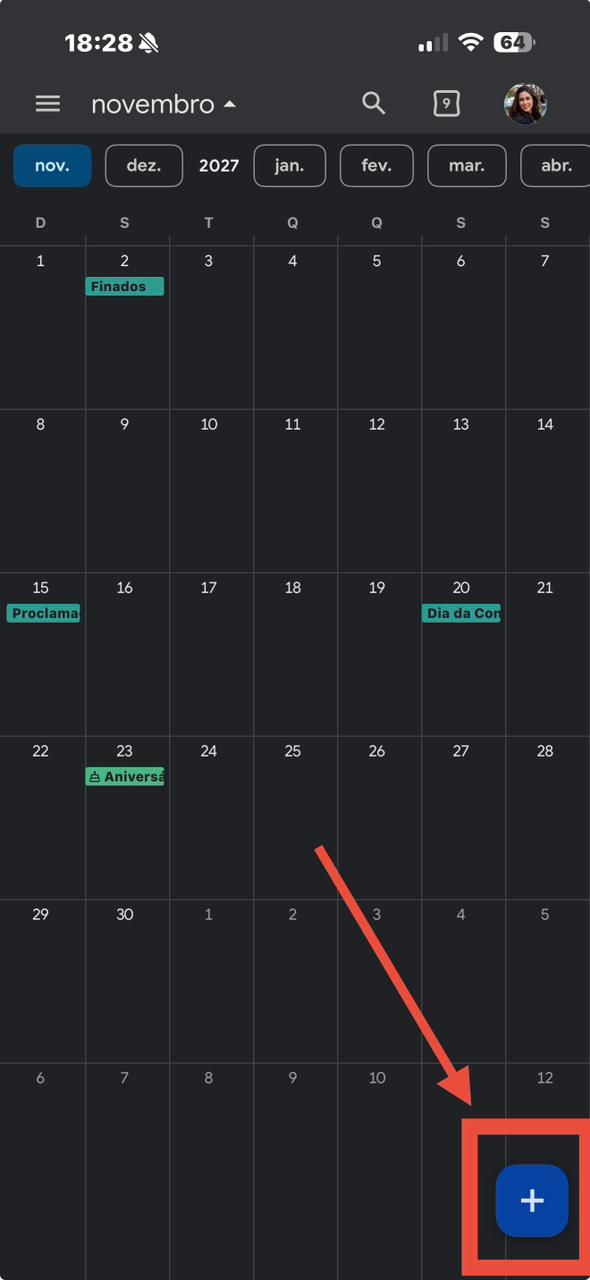
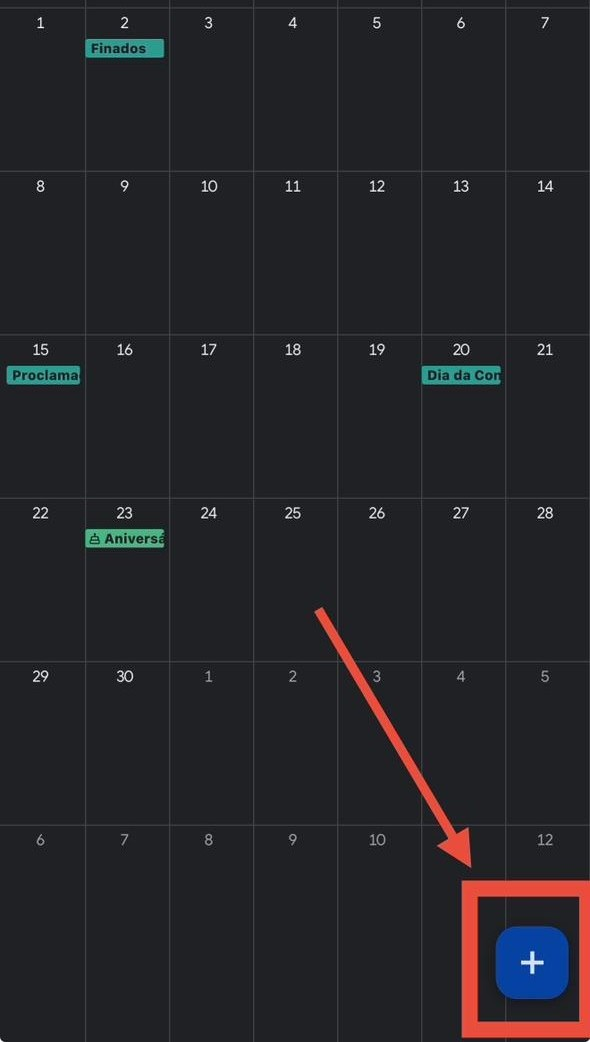
alterações nas imagens da home

diff --git a/assets/css/style.css b/assets/css/style.css
@@ -415,3 +415,53 @@ html, body {
     padding-left: 105px; /* Abre espaço para o botão "Voltar" absoluto */
   }
 }
+
+/* ============================================================
+   RESPONSIVIDADE DA HOME HERO
+   ============================================================ */
+.hero-section {
+  position: relative;
+  overflow: hidden;
+  background: linear-gradient(135deg, #2e2a36 0%, #3d3a47 50%, #2a2640 100%);
+  min-height: 880px; /* Reduzido em 20px */
+  display: flex;
+  align-items: center;
+  padding-top: 200px; /* Reduzido em 20px */
+  padding-bottom: 60px; /* Reduzido em 20px */
+}
+
+@media (max-width: 991px) {
+  .hero-section {
+    flex-direction: column;
+    justify-content: center;
+    align-items: center;
+    padding-top: 180px;
+    padding-bottom: 160px !important;
+    min-height: 100vh; /* Mantém tela cheia no mobile */
+  }
+}
+
+@media (min-width: 992px) {
+  .hero-images-wrapper {
+    position: absolute !important;
+    top: calc(50% + 30px) !important; /* Ajustado em 20px */
+    transform: translateY(-50%) !important;
+    right: 0 !important;
+    width: 40% !important;
+    padding-left: 24px !important;
+    z-index: 1;
+  }
+  .hero-images-grid {
+    grid-template-rows: 300px 300px !important; /* Tamanho original no desktop */
+    max-width: 100% !important;
+    margin-right: 0 !important;
+  }
+}
+
+@media (max-width: 991px) {
+  .hero-images-wrapper {
+    width: 100% !important;
+    margin-top: 6rem !important;
+    z-index: 2;
+  }
+}

diff --git a/pages/home.html b/pages/home.html
@@ -1,4 +1,4 @@
-<section style="position: relative; overflow: hidden; background: linear-gradient(135deg, #2e2a36 0%, #3d3a47 50%, #2a2640 100%); min-height: 100vh; display: flex; align-items: center; padding-top: 180px; padding-bottom: 60px;">
+<section class="hero-section">
 
   <!-- Formas decorativas de fundo -->
   <svg style="position: absolute; top: 0; left: 0; width: 100%; height: 100%; opacity: 0.25;" xmlns="http://www.w3.org/2000/svg">
@@ -24,15 +24,15 @@
                 radial-gradient(ellipse at 10% 80%, rgba(126, 200, 200, 0.1) 0%, transparent 50%);">
   </div>
 
-  <div class="container" style="position: relative; z-index: 2;">
-    <div class="row align-items-center g-5">
+  <div class="container text-container" style="position: relative; z-index: 2; width: 100%;">
+    <div class="row">
       
       <!-- Texto -->
-      <div class="col-12 col-lg-7 text-start">
+      <div class="col-12 col-lg-5 text-start">
         <h1 class="fw-bold mb-3 text-white hero-title" style="font-size: 3rem; line-height: 1.2;">
           Conecte-se ao mundo digital com confiança, no seu tempo e sem complicação
         </h1>
-        <p class="opacity-75 mb-4 text-white" style="font-size: 1.15rem; max-width: 600px;">
+        <p class="opacity-75 mb-4 text-white" style="font-size: 1.15rem;">
           Uma plataforma de aprendizado com guias simples e passo a passo, desenvolvida para ajudar você a utilizar o celular e aplicativos do dia a dia com segurança e confiança.
         </p>
         <div class="d-flex gap-3 flex-wrap">
@@ -46,21 +46,21 @@
         </div>
       </div>
 
-      <!-- Imagens -->
-      <div class="col-12 col-lg-5 text-center">
-        <div style="display: grid; grid-template-columns: 1fr 1fr; grid-template-rows: 220px 220px; gap: 12px; max-width: 450px; margin: 0 auto;">
-          <div style="border-radius: 16px; overflow: hidden; box-shadow: 0 8px 24px rgba(0,0,0,0.35);">
-            <img src="./assets/imgs/1.png" style="width: 100%; height: 100%; object-fit: cover;">
-          </div>
-          <div style="border-radius: 16px; overflow: hidden; box-shadow: 0 8px 24px rgba(0,0,0,0.35);">
-            <img src="./assets/imgs/2.png" style="width: 100%; height: 100%; object-fit: cover;">
-          </div>
-          <div style="grid-column: span 2; border-radius: 16px; overflow: hidden; box-shadow: 0 8px 24px rgba(0,0,0,0.35);">
-            <img src="./assets/imgs/3.png" style="width: 100%; height: 100%; object-fit: cover;">
-          </div>
-        </div>
-      </div>
+    </div>
+  </div>
 
+  <!-- Imagens -->
+  <div class="hero-images-wrapper">
+    <div class="hero-images-grid" style="display: grid; grid-template-columns: 1fr 1fr; grid-template-rows: 220px 220px; gap: 12px; max-width: 450px; margin: 0 auto; padding-left: 12px; padding-right: 12px;">
+      <div style="border-radius: 16px; overflow: hidden; box-shadow: 0 8px 24px rgba(0,0,0,0.35);">
+        <img src="./assets/imgs/1.png" style="width: 100%; height: 100%; object-fit: cover;">
+      </div>
+      <div style="border-radius: 16px 0 0 16px; overflow: hidden; box-shadow: 0 8px 24px rgba(0,0,0,0.35);">
+        <img src="./assets/imgs/2.png" style="width: 100%; height: 100%; object-fit: cover;">
+      </div>
+      <div style="grid-column: span 2; border-radius: 16px 0 0 16px; overflow: hidden; box-shadow: 0 8px 24px rgba(0,0,0,0.35);">
+        <img src="./assets/imgs/3.png" style="width: 100%; height: 100%; object-fit: cover;">
+      </div>
     </div>
   </div>
 </section>